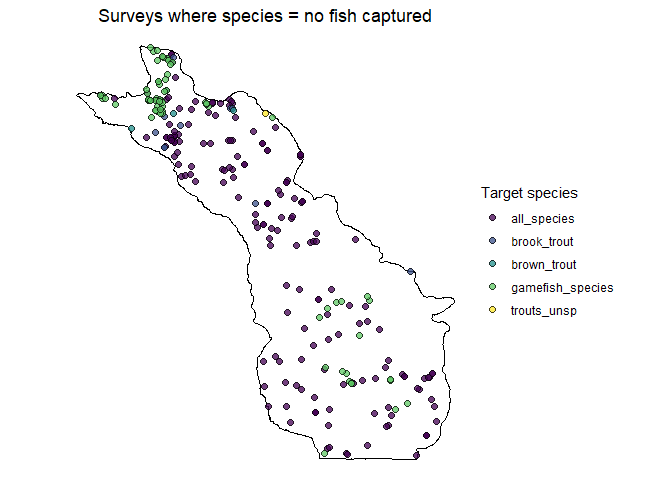
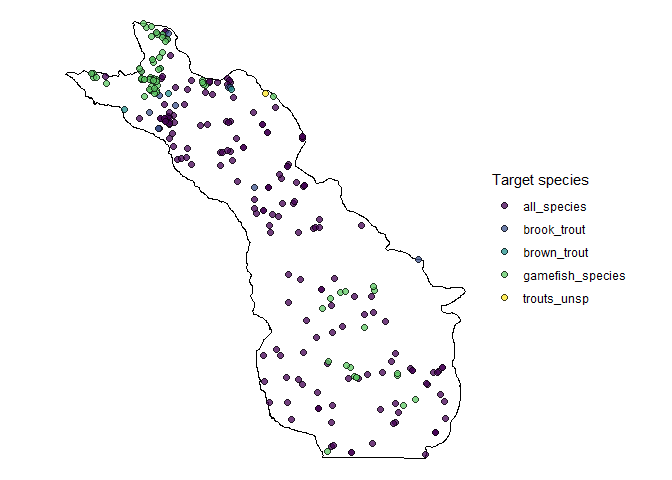
new code and fixed figures

diff --git a/R/bnt-dirftless-streams.md b/R/bnt-dirftless-streams.md
@@ -23,14 +23,12 @@ library(glue)
 ### Driftless ecoregion polygon and streams
 
 ``` r
-# load driftless ecoregion polygon
 poly_driftless <- 
   here("data", "ecoregions","wi_eco_l3.shp") %>% 
   st_read() %>% 
   st_transform(crs = 3071) %>% 
   filter(US_L3CODE == "52")
 
-# load classified trout stream lines
 lines_classed <- 
   here("data", "classified_trout_streams","Classified_Trout_Stream_Lines.shp") %>% 
   st_read() %>% 
@@ -113,80 +111,60 @@ df_fish_raw <-
 
 ## Inspect data
 
-### count of surveys in driftless from 1994-2020:
+#### number of surveys in driftless from 1994-2020:
 
     ## [1] 9395
 
-### count of wbics that have been surveyed in the driftless:
+#### number of surveyed streams in the driftless:
 
     ## [1] 4354
 
-### count of wbics that are classified trout stream flowlines:
+#### number of streams that are classified trout streams:
 
     ## [1] 1011
 
-### count of wbics in classified streams also surveyed:
+#### number of surveyed streams in the driftless on classified streams:
 
-#### join site locations to nearest classified flowline to get a site’s stream class:
+join sites to nearest classified stream to get a site’s stream class (so
+sites that are not on or near a classified stream get an NA for stream
+class:
 
 ``` r
+# df_surveys_drift_classed <-
+#   df_surveys_drift_locs %>%
+#   st_join(lines_classed_drift, join = nngeo::st_nn, k = 1, maxdist = 100)
+# write_rds(df_surveys_drift_classed, here("data", "df_surveys_drift_classed.rds"))
+
+df_surveys_drift_locs_classes <- 
+  here("data", "df_surveys_drift_classed.rds") %>% 
+  read_rds() %>% 
+  select(site.seq.no, TROUT_CLAS)
+
 df_surveys_drift_classed <- 
-  df_surveys_drift_locs %>% 
-  st_join(lines_classed_drift, join = nngeo::st_nn, k = 1, maxdist = 100)
+  df_surveys_drift %>% 
+  left_join(df_surveys_drift_locs_classes %>% st_drop_geometry(), by = "site.seq.no")
 ```
 
-    ##   |                                                                              |                                                                      |   0%  |                                                                              |                                                                      |   1%  |                                                                              |=                                                                     |   1%  |                                                                              |=                                                                     |   2%  |                                                                              |==                                                                    |   2%  |                                                                              |==                                                                    |   3%  |                                                                              |==                                                                    |   4%  |                                                                              |===                                                                   |   4%  |                                                                              |===                                                                   |   5%  |                                                                              |====                                                                  |   5%  |                                                                              |====                                                                  |   6%  |                                                                              |=====                                                                 |   6%  |                                                                              |=====                                                                 |   7%  |                                                                              |=====                                                                 |   8%  |                                                                              |======                                                                |   8%  |                                                                              |======                                                                |   9%  |                                                                              |=======                                                               |   9%  |                                                                              |=======                                                               |  10%  |                                                                              |=======                                                               |  11%  |                                                                              |========                                                              |  11%  |                                                                              |========                                                              |  12%  |                                                                              |=========                                                             |  12%  |                                                                              |=========                                                             |  13%  |                                                                              |=========                                                             |  14%  |                                                                              |==========                                                            |  14%  |                                                                              |==========                                                            |  15%  |                                                                              |===========                                                           |  15%  |                                                                              |===========                                                           |  16%  |                                                                              |============                                                          |  16%  |                                                                              |============                                                          |  17%  |                                                                              |============                                                          |  18%  |                                                                              |=============                                                         |  18%  |                                                                              |=============                                                         |  19%  |                                                                              |==============                                                        |  19%  |                                                                              |==============                                                        |  20%  |                                                                              |==============                                                        |  21%  |                                                                              |===============                                                       |  21%  |                                                                              |===============                                                       |  22%  |                                                                              |================                                                      |  22%  |                                                                              |================                                                      |  23%  |                                                                              |================                                                      |  24%  |                                                                              |=================                                                     |  24%  |                                                                              |=================                                                     |  25%  |                                                                              |==================                                                    |  25%  |                                                                              |==================                                                    |  26%  |                                                                              |===================                                                   |  26%  |                                                                              |===================                                                   |  27%  |                                                                              |===================                                                   |  28%  |                                                                              |====================                                                  |  28%  |                                                                              |====================                                                  |  29%  |                                                                              |=====================                                                 |  29%  |                                                                              |=====================                                                 |  30%  |                                                                              |=====================                                                 |  31%  |                                                                              |======================                                                |  31%  |                                                                              |======================                                                |  32%  |                                                                              |=======================                                               |  32%  |                                                                              |=======================                                               |  33%  |                                                                              |=======================                                               |  34%  |                                                                              |========================                                              |  34%  |                                                                              |========================                                              |  35%  |                                                                              |=========================                                             |  35%  |                                                                              |=========================                                             |  36%  |                                                                              |==========================                                            |  36%  |                                                                              |==========================                                            |  37%  |                                                                              |==========================                                            |  38%  |                                                                              |===========================                                           |  38%  |                                                                              |===========================                                           |  39%  |                                                                              |============================                                          |  39%  |                                                                              |============================                                          |  40%  |                                                                              |============================                                          |  41%  |                                                                              |=============================                                         |  41%  |                                                                              |=============================                                         |  42%  |                                                                              |==============================                                        |  42%  |                                                                              |==============================                                        |  43%  |                                                                              |==============================                                        |  44%  |                                                                              |===============================                                       |  44%  |                                                                              |===============================                                       |  45%  |                                                                              |================================                                      |  45%  |                                                                              |================================                                      |  46%  |                                                                              |=================================                                     |  46%  |                                                                              |=================================                                     |  47%  |                                                                              |=================================                                     |  48%  |                                                                              |==================================                                    |  48%  |                                                                              |==================================                                    |  49%  |                                                                              |===================================                                   |  49%  |                                                                              |===================================                                   |  50%  |                                                                              |===================================                                   |  51%  |                                                                              |====================================                                  |  51%  |                                                                              |====================================                                  |  52%  |                                                                              |=====================================                                 |  52%  |                                                                              |=====================================                                 |  53%  |                                                                              |=====================================                                 |  54%  |                                                                              |======================================                                |  54%  |                                                                              |======================================                                |  55%  |                                                                              |=======================================                               |  55%  |                                                                              |=======================================                               |  56%  |                                                                              |========================================                              |  56%  |                                                                              |========================================                              |  57%  |                                                                              |========================================                              |  58%  |                                                                              |=========================================                             |  58%  |                                                                              |=========================================                             |  59%  |                                                                              |==========================================                            |  59%  |                                                                              |==========================================                            |  60%  |                                                                              |==========================================                            |  61%  |                                                                              |===========================================                           |  61%  |                                                                              |===========================================                           |  62%  |                                                                              |============================================                          |  62%  |                                                                              |============================================                          |  63%  |                                                                              |============================================                          |  64%  |                                                                              |=============================================                         |  64%  |                                                                              |=============================================                         |  65%  |                                                                              |==============================================                        |  65%  |                                                                              |==============================================                        |  66%  |                                                                              |===============================================                       |  66%  |                                                                              |===============================================                       |  67%  |                                                                              |===============================================                       |  68%  |                                                                              |================================================                      |  68%  |                                                                              |================================================                      |  69%  |                                                                              |=================================================                     |  69%  |                                                                              |=================================================                     |  70%  |                                                                              |=================================================                     |  71%  |                                                                              |==================================================                    |  71%  |                                                                              |==================================================                    |  72%  |                                                                              |===================================================                   |  72%  |                                                                              |===================================================                   |  73%  |                                                                              |===================================================                   |  74%  |                                                                              |====================================================                  |  74%  |                                                                              |====================================================                  |  75%  |                                                                              |=====================================================                 |  75%  |                                                                              |=====================================================                 |  76%  |                                                                              |======================================================                |  76%  |                                                                              |======================================================                |  77%  |                                                                              |======================================================                |  78%  |                                                                              |=======================================================               |  78%  |                                                                              |=======================================================               |  79%  |                                                                              |========================================================              |  79%  |                                                                              |========================================================              |  80%  |                                                                              |========================================================              |  81%  |                                                                              |=========================================================             |  81%  |                                                                              |=========================================================             |  82%  |                                                                              |==========================================================            |  82%  |                                                                              |==========================================================            |  83%  |                                                                              |==========================================================            |  84%  |                                                                              |===========================================================           |  84%  |                                                                              |===========================================================           |  85%  |                                                                              |============================================================          |  85%  |                                                                              |============================================================          |  86%  |                                                                              |=============================================================         |  86%  |                                                                              |=============================================================         |  87%  |                                                                              |=============================================================         |  88%  |                                                                              |==============================================================        |  88%  |                                                                              |==============================================================        |  89%  |                                                                              |===============================================================       |  89%  |                                                                              |===============================================================       |  90%  |                                                                              |===============================================================       |  91%  |                                                                              |================================================================      |  91%  |                                                                              |================================================================      |  92%  |                                                                              |=================================================================     |  92%  |                                                                              |=================================================================     |  93%  |                                                                              |=================================================================     |  94%  |                                                                              |==================================================================    |  94%  |                                                                              |==================================================================    |  95%  |                                                                              |===================================================================   |  95%  |                                                                              |===================================================================   |  96%  |                                                                              |====================================================================  |  96%  |                                                                              |====================================================================  |  97%  |                                                                              |====================================================================  |  98%  |                                                                              |===================================================================== |  98%  |                                                                              |===================================================================== |  99%  |                                                                              |======================================================================|  99%  |                                                                              |======================================================================| 100%
-
-#### count of classificed wbics that have been surveyed:
-
     ## [1] 726
-
-#### count of class 1-2 wbics that have been surveyed:
 
     ## [1] 651
 
 ### plot of driftless survey sites and classified streams:
 
-<img src="bnt-dirftless-streams_files/figure-gfm/unnamed-chunk-1-1.png" style="display: block; margin: auto;" />
+<img src="bnt-dirftless-streams_files/figure-gfm/unnamed-chunk-5-1.png" style="display: block; margin: auto;" />
 
-## Trout presence
+## Trout presence/abscence
 
-### deal with zero captures
-
-#### surveys where species = ‘no\_fish\_captured’:
+### isolate zero captures
 
 ``` r
-# isolate zero
+# isolate zero captures
 df_no_fish <- 
   df_fish_raw %>% 
   filter(species == "no_fish_captured") 
 ```
 
-#### check and plot no captures:
-
-    ## # A tibble: 5 x 2
-    ##   `Target species` Count
-    ##   <chr>            <int>
-    ## 1 all species        179
-    ## 2 gamefish species    70
-    ## 3 brook trout         13
-    ## 4 brown trout          3
-    ## 5 trouts unsp          1
-
-    ## # A tibble: 21 x 2
-    ##    `Primary Survey Purpose`             Count
-    ##    <chr>                                <int>
-    ##  1 fisheries assessments trout rotation    62
-    ##  2 special study                           57
-    ##  3 comprehensive survey                    54
-    ##  4 baseline monitoring                     28
-    ##  5 watershed clean water act               13
-    ##  6 general survey                           8
-    ##  7 baseline random                          5
-    ##  8 fisheries assessments trout trend        5
-    ##  9 natural community reference              5
-    ## 10 stocking evaluation                      4
-    ## # ... with 11 more rows
+#### plot zero captures
 
 <img src="bnt-dirftless-streams_files/figure-gfm/map-zero-caps-1.png" style="display: block; margin: auto;" />
 
@@ -227,12 +205,12 @@ df_fish_presence %>%
     ## # A tibble: 6 x 3
     ##   species         n    nn
     ##   <chr>       <dbl> <int>
-    ## 1 brook_trout     0   421
-    ## 2 brook_trout     1  1879
-    ## 3 brown_trout     0   385
-    ## 4 brown_trout     1  2062
-    ## 5 tiger_trout     0    75
-    ## 6 tiger_trout     1    25
+    ## 1 brook_trout     0   782
+    ## 2 brook_trout     1  5139
+    ## 3 brown_trout     0   698
+    ## 4 brown_trout     1  5787
+    ## 5 tiger_trout     0   376
+    ## 6 tiger_trout     1   193
 
 ``` r
 # check class counts
@@ -243,10 +221,10 @@ df_fish_presence %>%
     ## # A tibble: 4 x 2
     ##   TROUT_CLAS     n
     ##   <chr>      <int>
-    ## 1 CLASS I     1486
-    ## 2 CLASS II    2183
-    ## 3 CLASS III    342
-    ## 4 <NA>         836
+    ## 1 CLASS I     4178
+    ## 2 CLASS II    6523
+    ## 3 CLASS III    739
+    ## 4 <NA>        1535
 
 ### get counts for unique wbics with trout present on classified waters:
 
@@ -361,4 +339,4 @@ n.wbics.tiger.p.12 <-
 
 ### plot presence/absence
 
-<img src="bnt-dirftless-streams_files/figure-gfm/unnamed-chunk-7-1.png" style="display: block; margin: auto;" />
+<img src="bnt-dirftless-streams_files/figure-gfm/unnamed-chunk-11-1.png" style="display: block; margin: auto;" />
